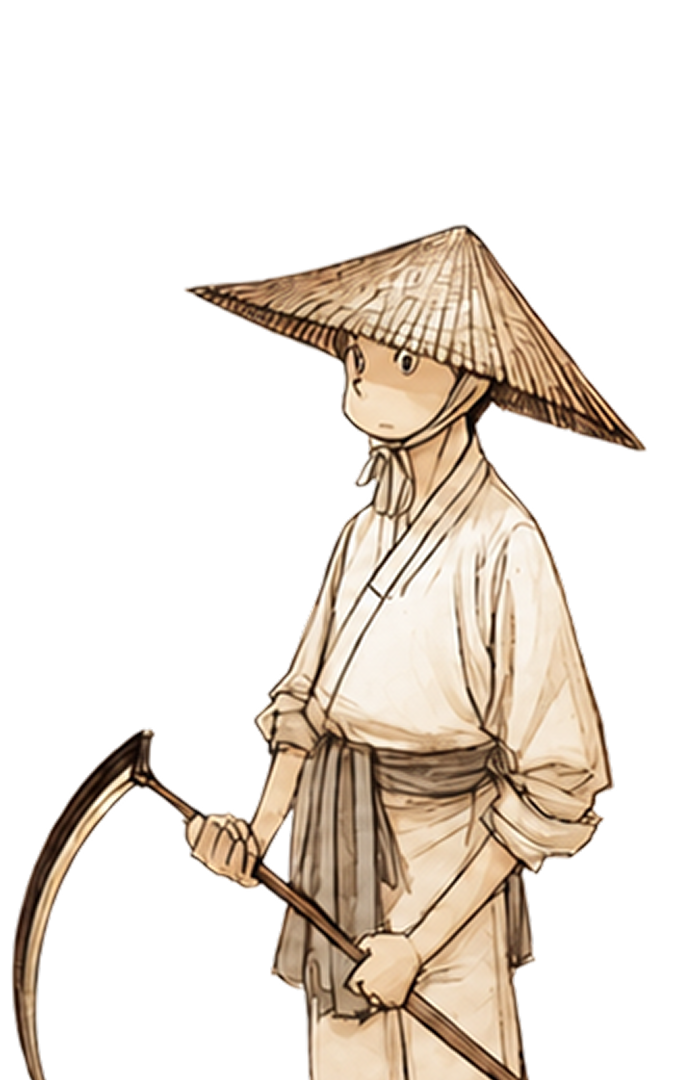
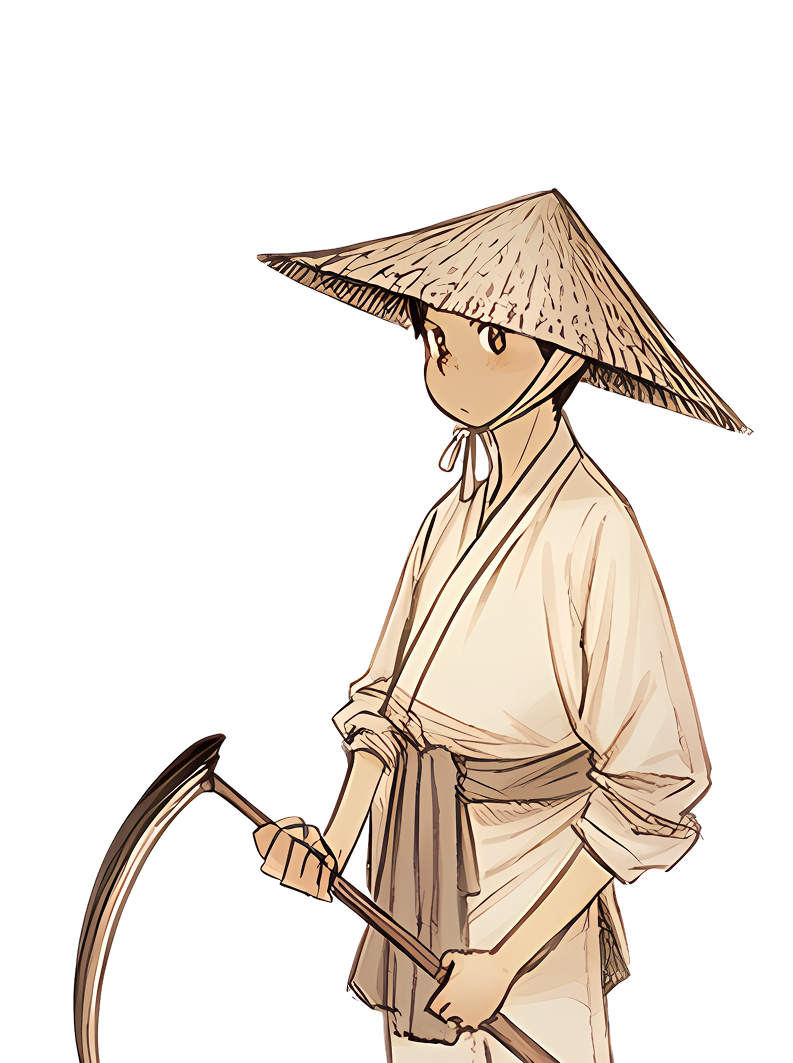
[Art] 엔딩 컷신 및 QA 수정 에셋 반영

Changed region(s): [[0.0, 0.1552, 0.938, 1.0]]

diff --git a/docs/submission/CREDITS.md b/docs/submission/CREDITS.md
@@ -55,7 +55,7 @@
 | `assets/final/icon/{fiery,mushy,slippery,sticky}.png` | C3 원본에서 분리·투명화한 작물 속성 아이콘 4종 | AI 생성 + 직접 분리·투명화 | GPT Image (Codex 내장, 모델명 비공개) + 이미지 편집 도구 | 아트 디렉션 12.4.3절 전문 참조 | 해당 없음 (AI 생성) |
 | `assets/source/phase-f/concept_lineup.png` | 플레이어·영순·만복·이장·금례 5인의 최종 캐릭터 디자인 기준 | AI 생성 + 직접 선별·합성 | NovelAI | 아트 디렉션 12.6절 태그 블록 참조 | 해당 없음 (AI 생성) |
 | `assets/source/phase-f/crops/{player,yeongsun,manbok,village_head,geumrye}.png` | 후속 Vibe Transfer에 쓰는 인물별 컨셉아트 크롭 5종 | AI 생성 + 직접 크롭 | NovelAI + 이미지 편집 도구 | `concept_lineup.png`에서 분리 | 해당 없음 (AI 생성) |
-| `assets/final/portrait/{player,yeongsun,manbok,village_head,geumrye}.png` | A4 대화·조우 결과에 공용하는 플레이어·주민 초상화 5종. 공통 1080px 높이와 투명 여백으로 인물간 상대 크기를 유지 | 기존 AI 생성 컨셉아트를 프로젝트 책임자가 직접 상반신 크롭·투명화 | 프로젝트 책임자 작업(편집 도구 미기재) | `assets/source/phase-f/crops/` 5종에서 파생 | 해당 없음 (AI 생성) |
+| `assets/final/portrait/{player,yeongsun,manbok,village_head,geumrye}.png` | A4 대화·조우 결과에 공용하는 플레이어·주민 초상화 5종. 공통 1080px 높이와 투명 여백으로 인물간 상대 크기를 유지 | 기존 AI 생성 컨셉아트를 프로젝트 책임자가 Figma에서 직접 상반신 크롭·투명화하고 QA 후 여백·배치를 재조정 | Figma | `assets/source/phase-f/crops/` 5종에서 파생 | 해당 없음 (AI 생성) |
 | `assets/source/phase-a/A4_precombat_dialogue_mockup_v1 (구).png` | A4 전투 전 대화 UI의 폐기된 크로마키 배치 원본 | AI 생성 + 크로마 보정 | GPT Image (Codex 내장, 모델명 비공개) + Pillow | `IMG-A-013` 전문 참조 | 해당 없음 (AI 생성) |
 | `assets/source/phase-a/A4_precombat_dialogue_mockup_v2.png` | 실제 구현 배치에 맞춘 A4 최종 목업. LD 일러스트와 필드 딤은 합성 전이라 생략 | 기존 AI 생성 UI 부품을 프로젝트 책임자가 직접 배치 | Figma | A4 v1과 기존 B단계 UI 부품을 참고해 직접 제작 | 해당 없음 (내부 제작) |
 | `assets/source/phase-b/sheets/b6_choice_balloon_sheet_chroma.png` | A4 선택지 말풍선 원본 시트 | AI 생성 | GPT Image (Codex 내장, 모델명 비공개) | `IMG-B-014` 전문 참조 | 해당 없음 (AI 생성) |
@@ -69,13 +69,18 @@
 | `assets/source/phase-f/character/{player,yeongsun,manbok,geumrye,village_head}_field_five_pose_sheet_chroma.png` | 플레이어·주민 4명의 정면·후면·좌·우·공격 포즈 원본 시트 5장 | AI 생성·반복 보정·프로젝트 책임자 선별 | GPT Image (Codex 내장, 모델명 비공개) | `IMG-F-002` 전문 참조 | 해당 없음 (AI 생성) |
 | `assets/final/field_sprite_{left,right,attack}/{player,yeongsun,manbok,geumrye,village_head}.png` | 5포즈 원본 시트에서 분리한 좌·우 이동 및 공격 교체 스프라이트 15장 | AI 생성 + 프로젝트 책임자 직접 분리·투명화 | GPT Image (Codex 내장, 모델명 비공개) + Figma | `IMG-F-002` 전문 참조 | 해당 없음 (AI 생성) |
 | `assets/source/phase-d/bg_title_v3.png`, `assets/final/ui/bg_title.png` | 누런 하늘·언덕 너머 시골 마을·우측 팻말 기둥으로 구성한 타이틀 화면 배경 원본과 최종본 | AI 생성·반복 보정·프로젝트 책임자 선별·최종 저장 | GPT Image (Codex 내장, 모델명 비공개) | 아트 디렉션 14.3.1절 및 제작 대화 참조 | 해당 없음 (AI 생성) |
+| `assets/final/cutscene/{neighbors,beyond_fence,silent_field,new_family,empty_village_master,global_fallback}.png` | 승인 엔딩 6종에 대응하는 전체 화면 배경 컷신 | `bg_title.png`를 기준으로 AI 편집·반복 선별한 뒤 프로젝트 책임자가 Figma에서 최종 편집·QA | GPT Image (Codex 내장, 모델명 비공개) + Figma | `IMG-G-001` 전문 참조 | 해당 없음 (AI 생성) |
+| `assets/final/ui/bg_day_start.png` | 1~5일차 시작 화면 공용 배경 | `bg_title.png`를 기준으로 AI 편집한 뒤 프로젝트 책임자가 Figma에서 최종 편집·QA | GPT Image (Codex 내장, 모델명 비공개) + Figma | `IMG-G-002` 전문 참조 | 해당 없음 (AI 생성) |
+| `assets/final/ui/day_start_scroll.png` | 2~5일차 시작 화면의 농장 일지 두루마리 | AI 생성 후 프로젝트 책임자가 Figma에서 누끼·최종 편집 | GPT Image (Codex 내장, 모델명 비공개) + Figma | `IMG-G-003` 전문 참조 | 해당 없음 (AI 생성) |
+| `assets/final/ui/ending_record_board.png` | 엔딩 기록문을 표시하는 대자보 게시판 | AI 생성 후 프로젝트 책임자가 Figma에서 누끼·최종 편집 | GPT Image (Codex 내장, 모델명 비공개) + Figma | `IMG-G-004` 전문 참조 | 해당 없음 (AI 생성) |
+| `assets/final/ui/player_status_card.png` | 재배·습격 하단 좌측 플레이어 상태 카드 | 기존 A1 HUD 부품을 프로젝트 책임자가 QA 후 재조정·재저장 | Figma | `IMG-B-001` 참조. 별도 생성 프롬프트 없음 | 해당 없음 (AI 생성) |
 | `assets/final/logo/title.png` | 타이틀 로고 최종본 | 프로젝트 책임자 제공 완성본 | 프로젝트 책임자 작업(제작 도구 미기재) | 프로젝트 책임자 제공 파일 | 해당 없음 (내부 제작) |
 | `assets/source/phase-a/A0_title_screen_mockup.png` | 최종 배경·로고·공용 버튼·설정 버튼의 타이틀 화면 배치 목업 | 기존 최종 에셋을 프로젝트 책임자가 직접 배치 | 프로젝트 책임자 작업(제작 도구 미기재) | 프로젝트 책임자 제공 파일 `Slide 16_9 - 2 (1).png` | 해당 없음 (내부 제작) |
 | `assets/source/phase-a/A0_title_screen_mockup_v2.png`, `A1_daytime_gameplay_mockup_v6.png`, `A2_nighttime_gameplay_mockup_v2.png` | 타이틀·재배·습격 화면의 2026-08-09 QA 최신 배치 목업 | 기존 프로젝트 에셋을 프로젝트 책임자가 직접 배치 | Figma | 프로젝트 책임자 제공 완성본. 별도 생성 프롬프트 없음 | 해당 없음 (내부 제작) |
 | `assets/source/phase-a/A3_maintenance_hub_mockup_v8_*.png` | 정비 화면 판매·제작·편성 2상태의 QA 최신 배치 목업 4장 | 기존 프로젝트 에셋을 프로젝트 책임자가 직접 배치 | Figma | 프로젝트 책임자 제공 완성본. 별도 생성 프롬프트 없음 | 해당 없음 (내부 제작) |
-| `assets/source/phase-a/A5_day_start_*_mockup_v1.png` | 1일차와 2~5일차 시작 화면의 배치 전용 임시 아트 목업 2장 | 기존 프로젝트 에셋과 임시 도형을 프로젝트 책임자가 직접 배치 | Figma | 두루마리 등 최종 에셋 미반영. 배치만 참고 | 해당 없음 (내부 제작) |
+| `assets/source/phase-a/A5_day_start_*_mockup_v1.png` | 1일차와 2~5일차 시작 화면의 배치 전용 임시 아트 목업 2장 | 기존 프로젝트 에셋과 임시 도형을 프로젝트 책임자가 직접 배치 | Figma | 배치만 참고. 최종 배경·두루마리는 `bg_day_start.png`·`day_start_scroll.png`로 별도 반영 | 해당 없음 (내부 제작) |
 | `assets/source/phase-a/A6_encounter_result_mockup_v1.png`, `A7_night_result_mockup_v1.png` | 창호지 셔터 공용 배경을 사용한 조우 결과·밤 결과 최신 배치 목업 | 기존 프로젝트 에셋을 프로젝트 책임자가 직접 배치 | Figma | 프로젝트 책임자 제공 완성본. 별도 생성 프롬프트 없음 | 해당 없음 (내부 제작) |
-| `assets/source/phase-a/A8_ending_mockup_v1.png` | 엔딩 화면의 배치 전용 임시 아트 목업 | 기존 프로젝트 에셋과 임시 도형을 프로젝트 책임자가 직접 배치 | Figma | 대자보 게시판과 엔딩 컷신 미반영. 배치만 참고 | 해당 없음 (내부 제작) |
+| `assets/source/phase-a/A8_ending_mockup_v1.png` | 엔딩 화면의 배치 전용 임시 아트 목업 | 기존 프로젝트 에셋과 임시 도형을 프로젝트 책임자가 직접 배치 | Figma | 배치만 참고. 최종 게시판·컷신은 `ending_record_board.png`와 컷신 6종으로 별도 반영 | 해당 없음 (내부 제작) |
 
 ## 사운드 · BGM
 
@@ -1519,6 +1524,76 @@ village head: a forward bare-fist punch with the other hand guarding
 
 최종 채택본은 캐릭터별 원본 시트 5장이다. 정면은 기존 승인본 대조용, 후면은 원본 보존용이며,
 프로젝트 책임자가 Figma에서 좌·우·공격 칸만 분리·투명화해 최종 에셋 15장으로 만든다.
+
+### IMG-G-001 — 타이틀 배경 변주형 엔딩 컷신 6종
+
+`assets/final/ui/bg_title.png`를 공통 편집 기준으로 삼았다. 공통 지시는 아래와 같다.
+
+```text
+Edit the provided title background into a full-screen ending background while preserving its
+wide rural village, fields, distant mountains, hand-drawn cartoon linework, muted earthy palette,
+and paper-like texture. Remove the entire wooden signpost and its shadow from the right side.
+Do not add titles, captions, buttons, panels, borders, or other UI. Keep open, calm areas where
+ending text and a notice-board UI can remain readable. Change only the environmental story cue
+specified for the selected ending.
+```
+
+엔딩별 추가 지시는 다음과 같다.
+
+```text
+neighbors: soft sunlight descends from the sky toward the village and fields; no people
+beyond_fence: keep a bright title-like sky; small distant human figures emerge from the village
+and watch from beyond the fields, too far away to identify
+silent_field: use a dim, overcast sky and an empty, inactive village; no people
+new_family: place exactly four small-to-medium distant residents near the village, based on
+Yeongsun, Manbok, the village head, and Geumrye; omit facial details, preserve recognizable
+costume color blocks, and show all four actively welcoming the player with waving or open arms
+empty_village_master: the village has burned away; show charred foundations, collapsed beams,
+ash, small embers, and thin smoke; no people
+global_fallback: remove only the signpost and its shadow; otherwise preserve the title background
+```
+
+초기의 인물 중심 컷신 시안은 타이틀 화면과 시각적 연속성이 약해 폐기했다. `new_family`는
+군중 수·인물 크기·복식 식별·환영 동작을 단계적으로 보정했으며, 프로젝트 책임자가 최종
+채택본 6장을 Figma에서 편집·QA해 `assets/final/cutscene/`에 저장했다.
+
+### IMG-G-002 — 일차 시작 배경
+
+```text
+Edit assets/final/ui/bg_title.png. Remove the entire wooden signpost and its shadow. Preserve the
+same village, fields, mountains, framing, linework, palette, and texture. Change only the sky to
+an early morning shortly after sunrise: the land is already bright, the horizon is pale gold and
+peach, and a faint blue-gray trace of night remains in the upper sky. No people, text, UI, panels,
+or new objects.
+```
+
+프로젝트 책임자가 Figma에서 최종 편집·QA해 `assets/final/ui/bg_day_start.png`로 저장했다.
+
+### IMG-G-003 — 일차 시작 농장 일지 두루마리
+
+```text
+Create one standalone traditional Korean hanging scroll for a hand-drawn game UI. Use aged warm
+cream paper, simple wooden rollers, dry irregular ink outlines, restrained two-step shading, and
+a large completely blank center for dynamic farm-diary text. Match the existing Joseon-era wood
+and hanji UI. No writing, symbols, characters, scenery, cast shadow, or extra objects. Use a flat
+bright-green chroma background with generous padding for later cutout.
+```
+
+프로젝트 책임자가 Figma에서 누끼와 최종 편집을 해 `assets/final/ui/day_start_scroll.png`로
+저장했다.
+
+### IMG-G-004 — 엔딩 기록문 대자보 게시판
+
+```text
+Create one standalone traditional Korean village notice board for a hand-drawn game UI. Use a
+simple wooden roof and frame around one large blank paper writing surface for dynamic ending text.
+Match the existing Joseon-era wooden UI with dry irregular outlines, muted brown wood, warm cream
+paper, and restrained two-step shading. No writing, symbols, characters, scenery, cast shadow, or
+extra objects. Use a flat bright-green chroma background with generous padding for later cutout.
+```
+
+프로젝트 책임자가 Figma에서 누끼와 최종 편집을 해 `assets/final/ui/ending_record_board.png`로
+저장했다.
 
 ### SND-BGM-001 — 타이틀 (`farm.mp3`와 프롬프트 공유)
 

diff --git a/docs/submission/ART_ITERATION_LOG.md b/docs/submission/ART_ITERATION_LOG.md
@@ -38,10 +38,15 @@ A3 정비 허브 · A4 대화로 바뀌었다. 아래 표의 A2·A3는 **옛 번
 | A1-v6 | `assets/source/phase-a/A1_daytime_gameplay_mockup_v6.png` | 0 | 0 | **최신 배치 기준** | 공용 습격 예고와 퀵슬롯 수량 배지를 반영한 재배 화면 |
 | A2-v2 | `assets/source/phase-a/A2_nighttime_gameplay_mockup_v2.png` | 0 | 0 | **최신 배치 기준** | 공용 습격 예고와 퀵슬롯 수량 배지를 반영한 습격 화면 |
 | A3-v8 | `assets/source/phase-a/A3_maintenance_hub_mockup_v8_*.png` | 0 | 0 | **최신 배치 기준** | 판매·제작·편성 2상태 4장으로 정비 화면 상태를 분리 |
-| A5-v1 | `assets/source/phase-a/A5_day_start_*_mockup_v1.png` | 0 | 0 | **배치 참고** | 1일차와 2~5일차 시작. 두루마리 등 최종 에셋 미반영 |
+| A5-v1 | `assets/source/phase-a/A5_day_start_*_mockup_v1.png` | 0 | 0 | **배치 참고** | 1일차와 2~5일차 시작 배치 참고. 최종 배경·두루마리는 별도 에셋으로 반영 |
 | A6-v1 | `assets/source/phase-a/A6_encounter_result_mockup_v1.png` | 0 | 0 | **최신 배치 기준** | 정비와 같은 창호지 셔터 배경 위에 조우 결과 패널 배치 |
 | A7-v1 | `assets/source/phase-a/A7_night_result_mockup_v1.png` | 0 | 0 | **최신 배치 기준** | 정비와 같은 창호지 셔터 배경 위에 밤 결과 패널 배치 |
-| A8-v1 | `assets/source/phase-a/A8_ending_mockup_v1.png` | 0 | 0 | **배치 참고** | 대자보 게시판과 엔딩 컷신 최종 에셋 미반영 |
+| A8-v1 | `assets/source/phase-a/A8_ending_mockup_v1.png` | 0 | 0 | **배치 참고** | 엔딩 UI 배치 참고. 최종 게시판·컷신 6종은 별도 에셋으로 반영 |
+| G-1 | `assets/final/cutscene/*.png` | 15 | 14 | **확정·final 반영** | 인물 중심 시안을 폐기하고 타이틀 배경 변주 6종으로 통일. `new_family`의 인물 크기·복식·환영 동작을 반복 보정 |
+| G-2 | `assets/final/ui/bg_day_start.png` | 1 | 0 | **확정·final 반영** | 타이틀 배경에서 팻말 기둥을 제거하고 해가 오른 직후의 밝은 아침 하늘로 변주 |
+| G-3 | `assets/final/ui/day_start_scroll.png` | 1 | 0 | **확정·final 반영** | 농장 일지 동적 텍스트용 빈 두루마리 제작 후 Figma 누끼·최종 편집 |
+| G-4 | `assets/final/ui/ending_record_board.png` | 1 | 0 | **확정·final 반영** | 엔딩 기록문 동적 텍스트용 빈 대자보 게시판 제작 후 Figma 누끼·최종 편집 |
+| QA-FINAL-001 | `assets/final/portrait/*.png`, `assets/final/ui/player_status_card.png` | 0 | 0 | **확정·final 반영** | 프로젝트 책임자가 Figma에서 초상화 5종과 상태 카드의 여백·배치를 QA 후 재조정·재저장 |
 
 ## 상세 이력
 
@@ -169,10 +174,47 @@ A3 정비 허브 · A4 대화로 바뀌었다. 아래 표의 A2·A3는 **옛 번
 | 타이틀 | `assets/source/phase-a/A0_title_screen_mockup_v2.png` | 게임 시작과 설정 입력 두 개를 팻말에 배치한 최신 기준. |
 | 필드 | `assets/source/phase-a/A1_daytime_gameplay_mockup_v6.png`, `A2_nighttime_gameplay_mockup_v2.png` | 재배·습격 모두 좌상단 공용 습격 예고와 하단 공용 수량 배지를 사용한다. |
 | 정비 | `assets/source/phase-a/A3_maintenance_hub_mockup_v8_*.png` | 판매·제작·편성된 슬롯 선택·빈 슬롯 선택 네 상태를 별도 보존했다. |
-| 일차 시작 | `assets/source/phase-a/A5_day_start_day1_mockup_v1.png`, `A5_day_start_day2_5_mockup_v1.png` | 배치 참고용이다. 2~5일차의 두루마리는 임시 도형이며 최종 에셋이 아니다. |
+| 일차 시작 | `assets/source/phase-a/A5_day_start_day1_mockup_v1.png`, `A5_day_start_day2_5_mockup_v1.png` | 배치 참고용이다. 임시 도형 대신 최종 `bg_day_start.png`·`day_start_scroll.png`를 별도 제작했다. |
 | 결과 | `assets/source/phase-a/A6_encounter_result_mockup_v1.png`, `A7_night_result_mockup_v1.png` | 두 독립 화면이 정비와 같은 창호지 셔터 배경을 재사용한다. 패널 구성은 서로 다르게 유지한다. |
-| 엔딩 | `assets/source/phase-a/A8_ending_mockup_v1.png` | 배치 참고용이다. 대자보 게시판과 엔딩 컷신은 최종 에셋이 아니다. |
+| 엔딩 | `assets/source/phase-a/A8_ending_mockup_v1.png` | 배치 참고용이다. 최종 `ending_record_board.png`와 컷신 6종을 별도 제작했다. |
 
 12장은 모두 프로젝트 책임자가 Figma에서 직접 구성한 1920×1080 PNG이며 이미지 생성 도구
 호출은 없었다. `bg_encounter_result`·`bg_night_result`·`bg_pause`의 스키마 정리는 개발팀에
 인계하고 이 작업에서는 스키마와 코드를 변경하지 않는다.
+
+### G-1 — 엔딩 컷신 6종
+
+| 회차 | 파일 | 결과·변경 내용 |
+|---:|---|---|
+| 1~4 | 기록만 보존 | 각 엔딩을 독립 인물 삽화로 풀었으나 타이틀·게임 화면과의 화풍 및 공간 연속성이 약해 전부 폐기했다. |
+| 5 | `assets/final/cutscene/neighbors.png` | 타이틀 배경에서 팻말 기둥을 제거하고 마을과 밭으로 빛이 내려오는 변주를 채택했다. |
+| 6~7 | `assets/final/cutscene/beyond_fence.png` | 마을 너머의 작은 사람 형체가 플레이어 쪽을 바라보게 했다. 최초의 어두운 하늘을 폐기하고 타이틀과 비슷한 밝기의 하늘로 보정했다. |
+| 8 | `assets/final/cutscene/silent_field.png` | 사람이 없는 마을과 어둑한 하늘만으로 정적을 표현했다. |
+| 9~13 | `assets/final/cutscene/new_family.png` | 일반 군중, 과도하게 큰 SD 인물, 지나치게 작은 무채색 실루엣을 차례로 폐기했다. 최종본은 마을 근처에 주민 4명을 중간 크기로 두고 얼굴은 생략하되 복식 색으로 구분하며, 손을 흔들거나 팔을 벌려 플레이어를 반기게 했다. |
+| 14 | `assets/final/cutscene/empty_village_master.png` | 모든 집이 불타 사라진 마을을 숯검정 기초·무너진 들보·재·잔불·옅은 연기로 표현했다. |
+| 15 | `assets/final/cutscene/global_fallback.png` | 타이틀 배경에서 팻말 기둥과 그림자만 제거하고 나머지는 유지했다. |
+
+최종 6종은 모두 `bg_title.png`의 구도와 카툰풍을 공유하며, 프로젝트 책임자가 Figma에서
+최종 편집·QA한 파일만 `assets/final/cutscene/`에 반영했다.
+
+### G-2 — 일차 시작 배경
+
+| 회차 | 파일 | 결과·변경 내용 |
+|---:|---|---|
+| 1 | `assets/final/ui/bg_day_start.png` | 타이틀 배경에서 팻말 기둥과 그림자를 제거하고, 해가 이미 조금 오른 밝은 아침과 상단에 남은 옅은 밤빛만 보정했다. 프로젝트 책임자가 Figma에서 최종 편집·QA했다. |
+
+### G-3·G-4 — 두루마리·대자보 게시판
+
+| 회차 | 파일 | 결과·변경 내용 |
+|---:|---|---|
+| 1 | `assets/final/ui/day_start_scroll.png` | 2~5일차 농장 일지를 동적으로 표시할 빈 두루마리를 생성했다. 프로젝트 책임자가 Figma에서 누끼·최종 편집했다. |
+| 1 | `assets/final/ui/ending_record_board.png` | 엔딩 기록문을 동적으로 표시할 빈 대자보 게시판을 생성했다. 프로젝트 책임자가 Figma에서 누끼·최종 편집했다. |
+
+### QA-FINAL-001 — 초상화·상태 카드 QA 수정
+
+| 구분 | 파일 | 결과·변경 내용 |
+|---|---|---|
+| 초상화 | `assets/final/portrait/{player,yeongsun,manbok,village_head,geumrye}.png` | 프로젝트 책임자가 Figma에서 QA 후 여백·배치를 재조정하고 최종 PNG를 다시 저장했다. |
+| 상태 카드 | `assets/final/ui/player_status_card.png` | 프로젝트 책임자가 Figma에서 QA 후 배치를 재조정하고 최종 PNG를 다시 저장했다. |
+
+이 QA 수정에는 이미지 생성 호출이 없었으며 DEC·스키마·코드 변경도 포함하지 않는다.

diff --git a/docs/planning/밭두렁난투_아트_디렉션.md b/docs/planning/밭두렁난투_아트_디렉션.md
@@ -2286,10 +2286,15 @@ assets/final/ui/quickslot_count_badge.png    46×40, 투명 PNG
 
 | 용도 | 확정 파일 경로 | 개발팀 등록 요청 ID | 상태 |
 |---|---|---|---|
+| 1~5일차 시작 공용 배경 | `assets/final/ui/bg_day_start.png` | `asset.ui.bg_day_start` | 아트 제작 완료·기존 ID 연결 대기 |
 | 2~5일차 농장 일지 두루마리 | `assets/final/ui/day_start_scroll.png` | `asset.ui.day_start_scroll` | 아트 제작·개발 등록 대기 |
 | 엔딩 기록문 대자보 게시판 | `assets/final/ui/ending_record_board.png` | `asset.ui.ending_record_board` | 아트 제작·개발 등록 대기 |
 
-파일명과 아트 경로는 확정됐지만 논리 ID는 개발팀이 스키마에 등록하기 전까지 요청안이다.
+`bg_day_start.png`는 `bg_title.png`의 마을·밭·산 구도를 유지하면서 우측 팻말 기둥과 그림자를
+제거하고, 해가 이미 조금 오른 밝은 아침과 상단에 남은 옅은 밤빛으로 하늘만 변주했다.
+`asset.ui.bg_day_start`는 기존 스키마 고정 ID이며 실제 화면 연결은 개발팀에 인계한다.
+두루마리와 게시판의 파일명·아트 경로는 확정됐지만 신규 논리 ID는 개발팀이 스키마에
+등록하기 전까지 요청안이다.
 
 조우 결과와 밤 결과는 각각 독립 화면과 서로 다른 패널 구성을 유지하되, 배경에는 정비와
 같은 `shutter_left`·`shutter_right`를 재사용한다. 따라서 `bg_encounter_result`와
@@ -2316,6 +2321,18 @@ assets/final/ui/quickslot_count_badge.png    46×40, 투명 PNG
 | `ending.new_family` | `assets/final/cutscene/new_family.png` | `asset.cutscene.new_family` |
 | `ending.empty_village_master` | `assets/final/cutscene/empty_village_master.png` | `asset.cutscene.empty_village_master` |
 | `ending.global_fallback` | `assets/final/cutscene/global_fallback.png` | `asset.cutscene.global_fallback` |
+
+2026-08-09 프로젝트 책임자가 다음 최종 제작 기준으로 6장을 편집·QA해 위 경로에 반영했다.
+모두 `bg_title.png`의 카툰풍 시골 마을 구도를 공유하고 우측 팻말 기둥을 제거한다.
+
+| 엔딩 | 최종 배경 변주 |
+|---|---|
+| 밭두렁의 이웃 | 하늘에서 마을과 밭을 향해 빛이 내려온다. |
+| 울타리 너머의 시선 | 타이틀과 비슷한 밝기의 하늘 아래, 마을 너머의 작은 사람 형체들이 플레이어 쪽을 바라본다. |
+| 아무도 오지 않는 밭 | 사람이 없는 마을과 어둑한 하늘로 정적을 표현한다. |
+| 새 식구 | 마을 근처의 주민 4명이 얼굴 묘사 없이 복식 색으로 구분되며, 손을 흔들거나 팔을 벌려 플레이어를 반긴다. |
+| 빈 마을의 주민 | 모든 집이 불타 사라진 마을을 숯검정 기초·무너진 들보·재·잔불·옅은 연기로 표현한다. |
+| 공용 폴백 | 팻말 기둥과 그림자만 제거하고 타이틀 배경의 나머지 요소를 유지한다. |
 
 컷신은 1920×1080 PNG로 제작하고 제목·요약·기록문·대자보 게시판·버튼을 그림에 굽지 않는다.
 `A8_ending_mockup_v1.png`의 왼쪽 제목·요약 영역과 오른쪽 게시판 영역 위에서도 글자가 읽히도록
